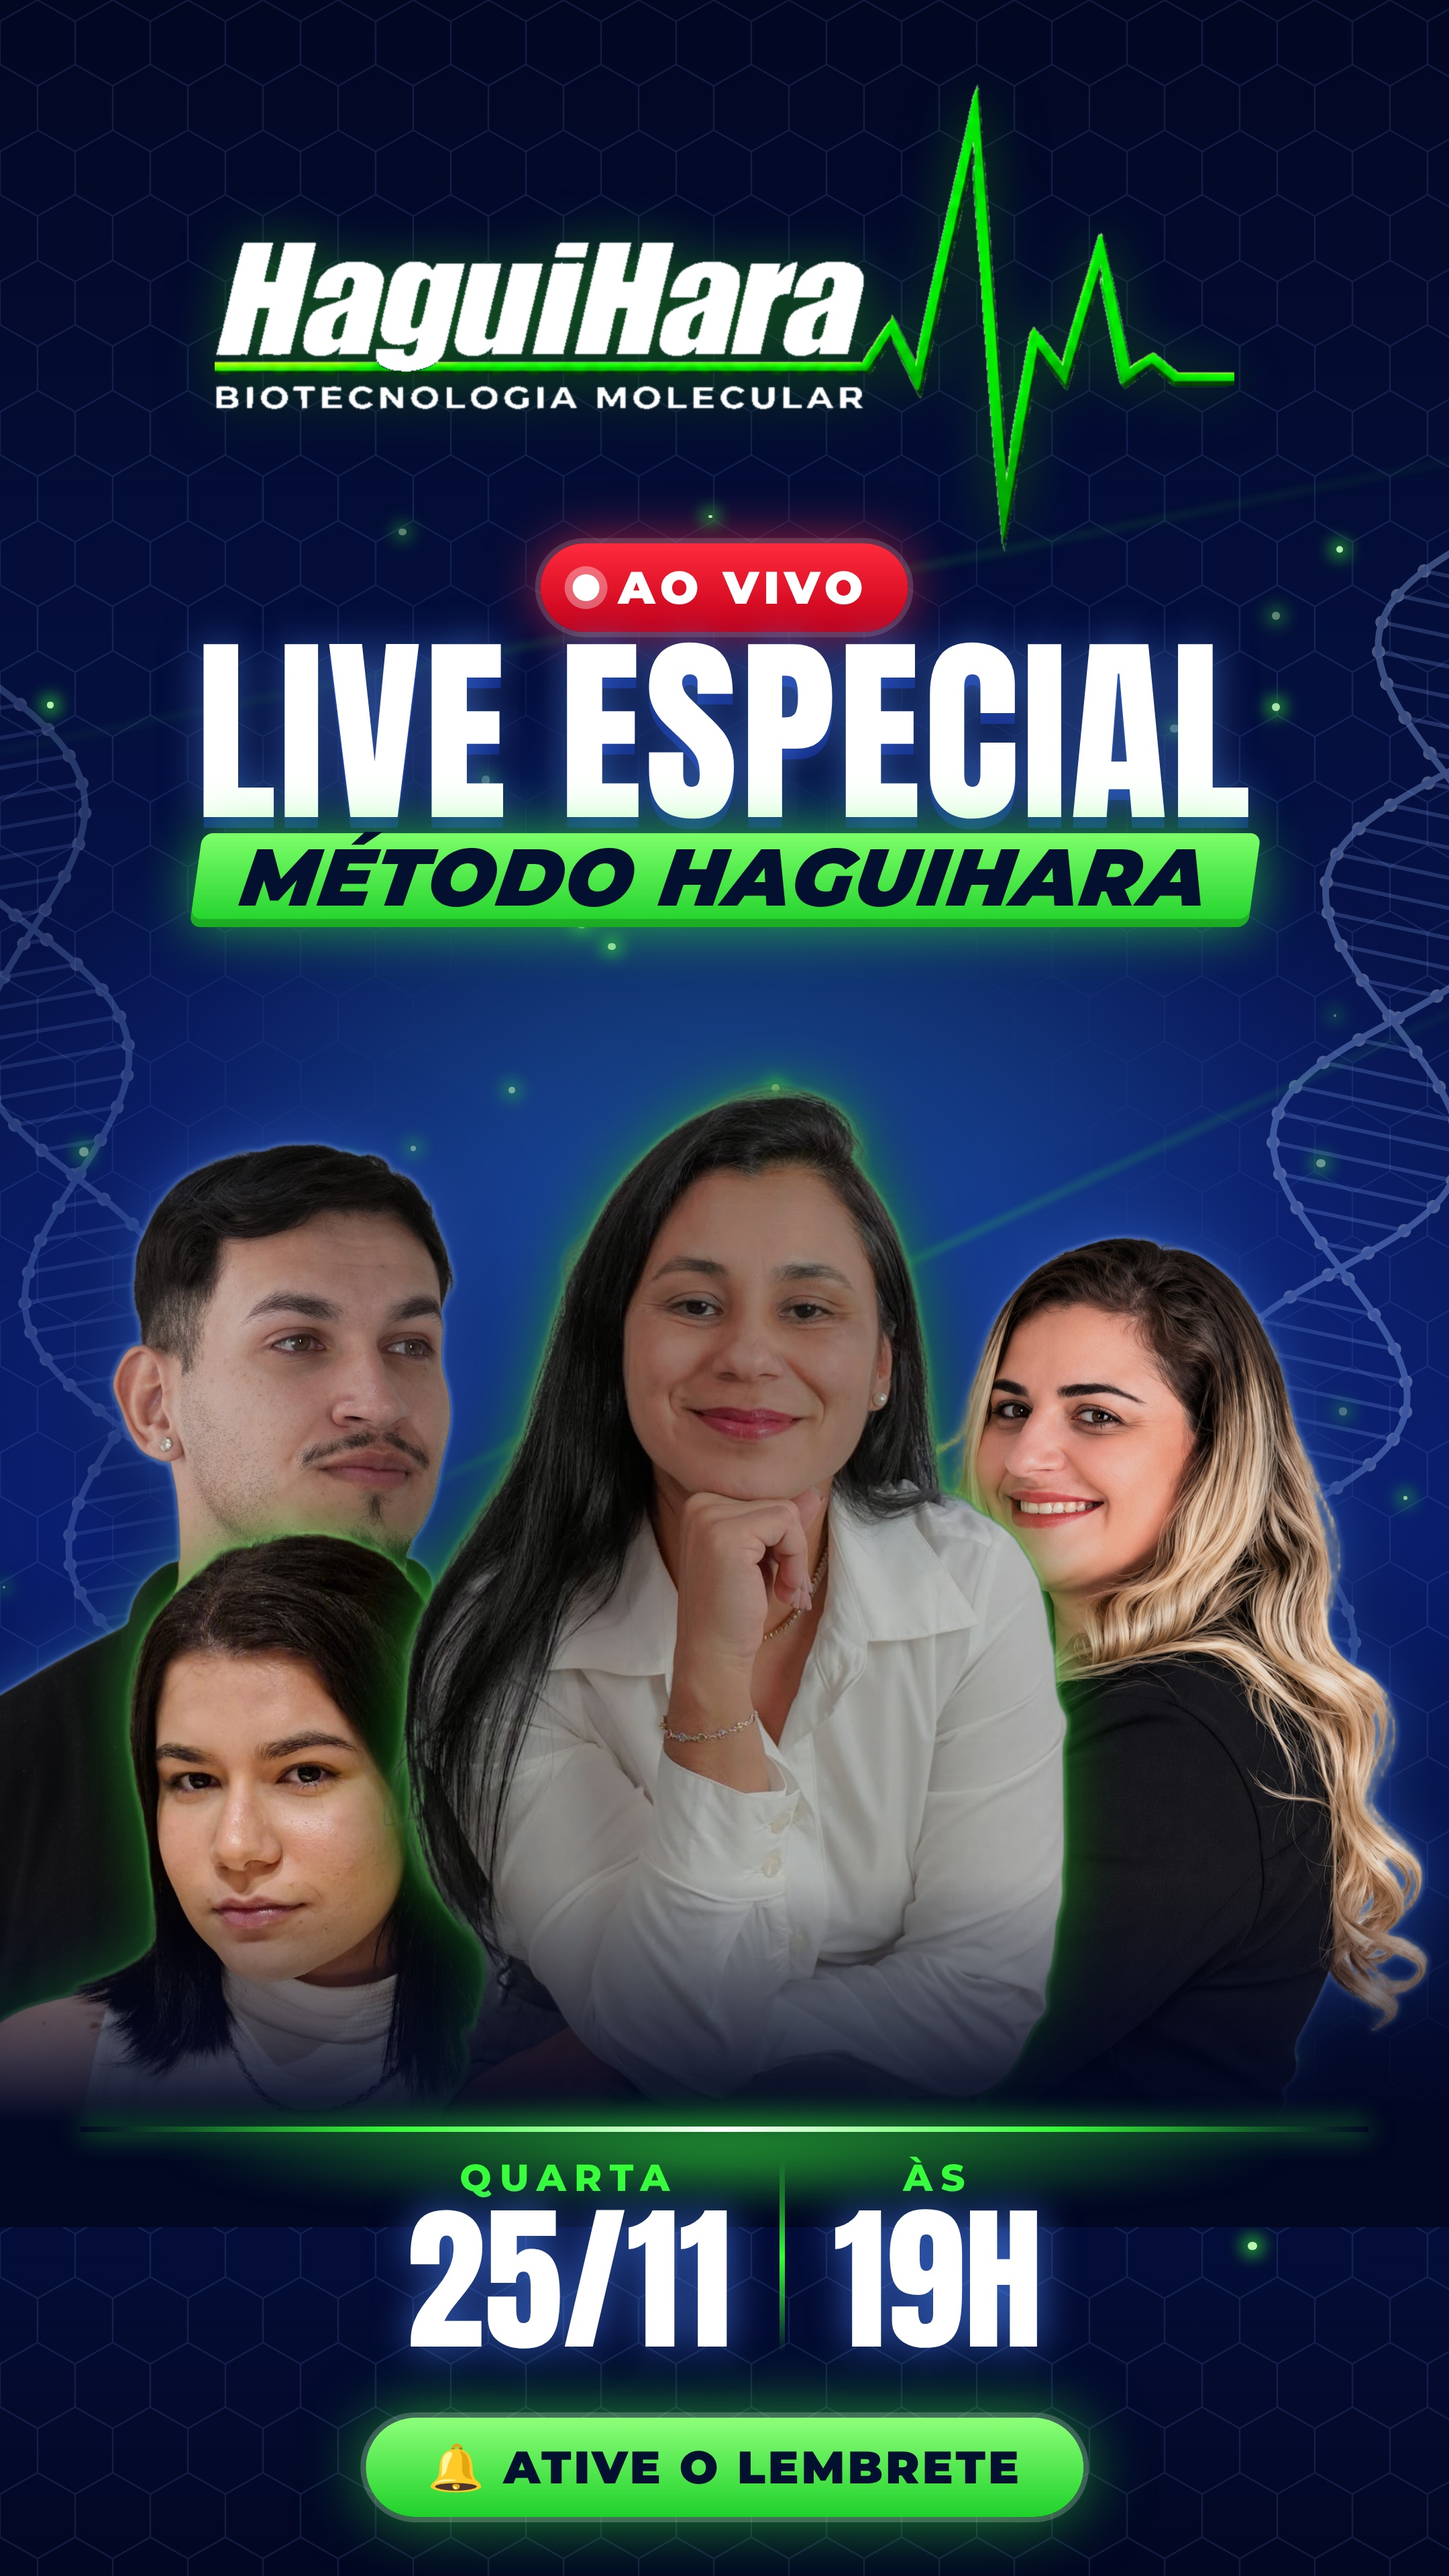
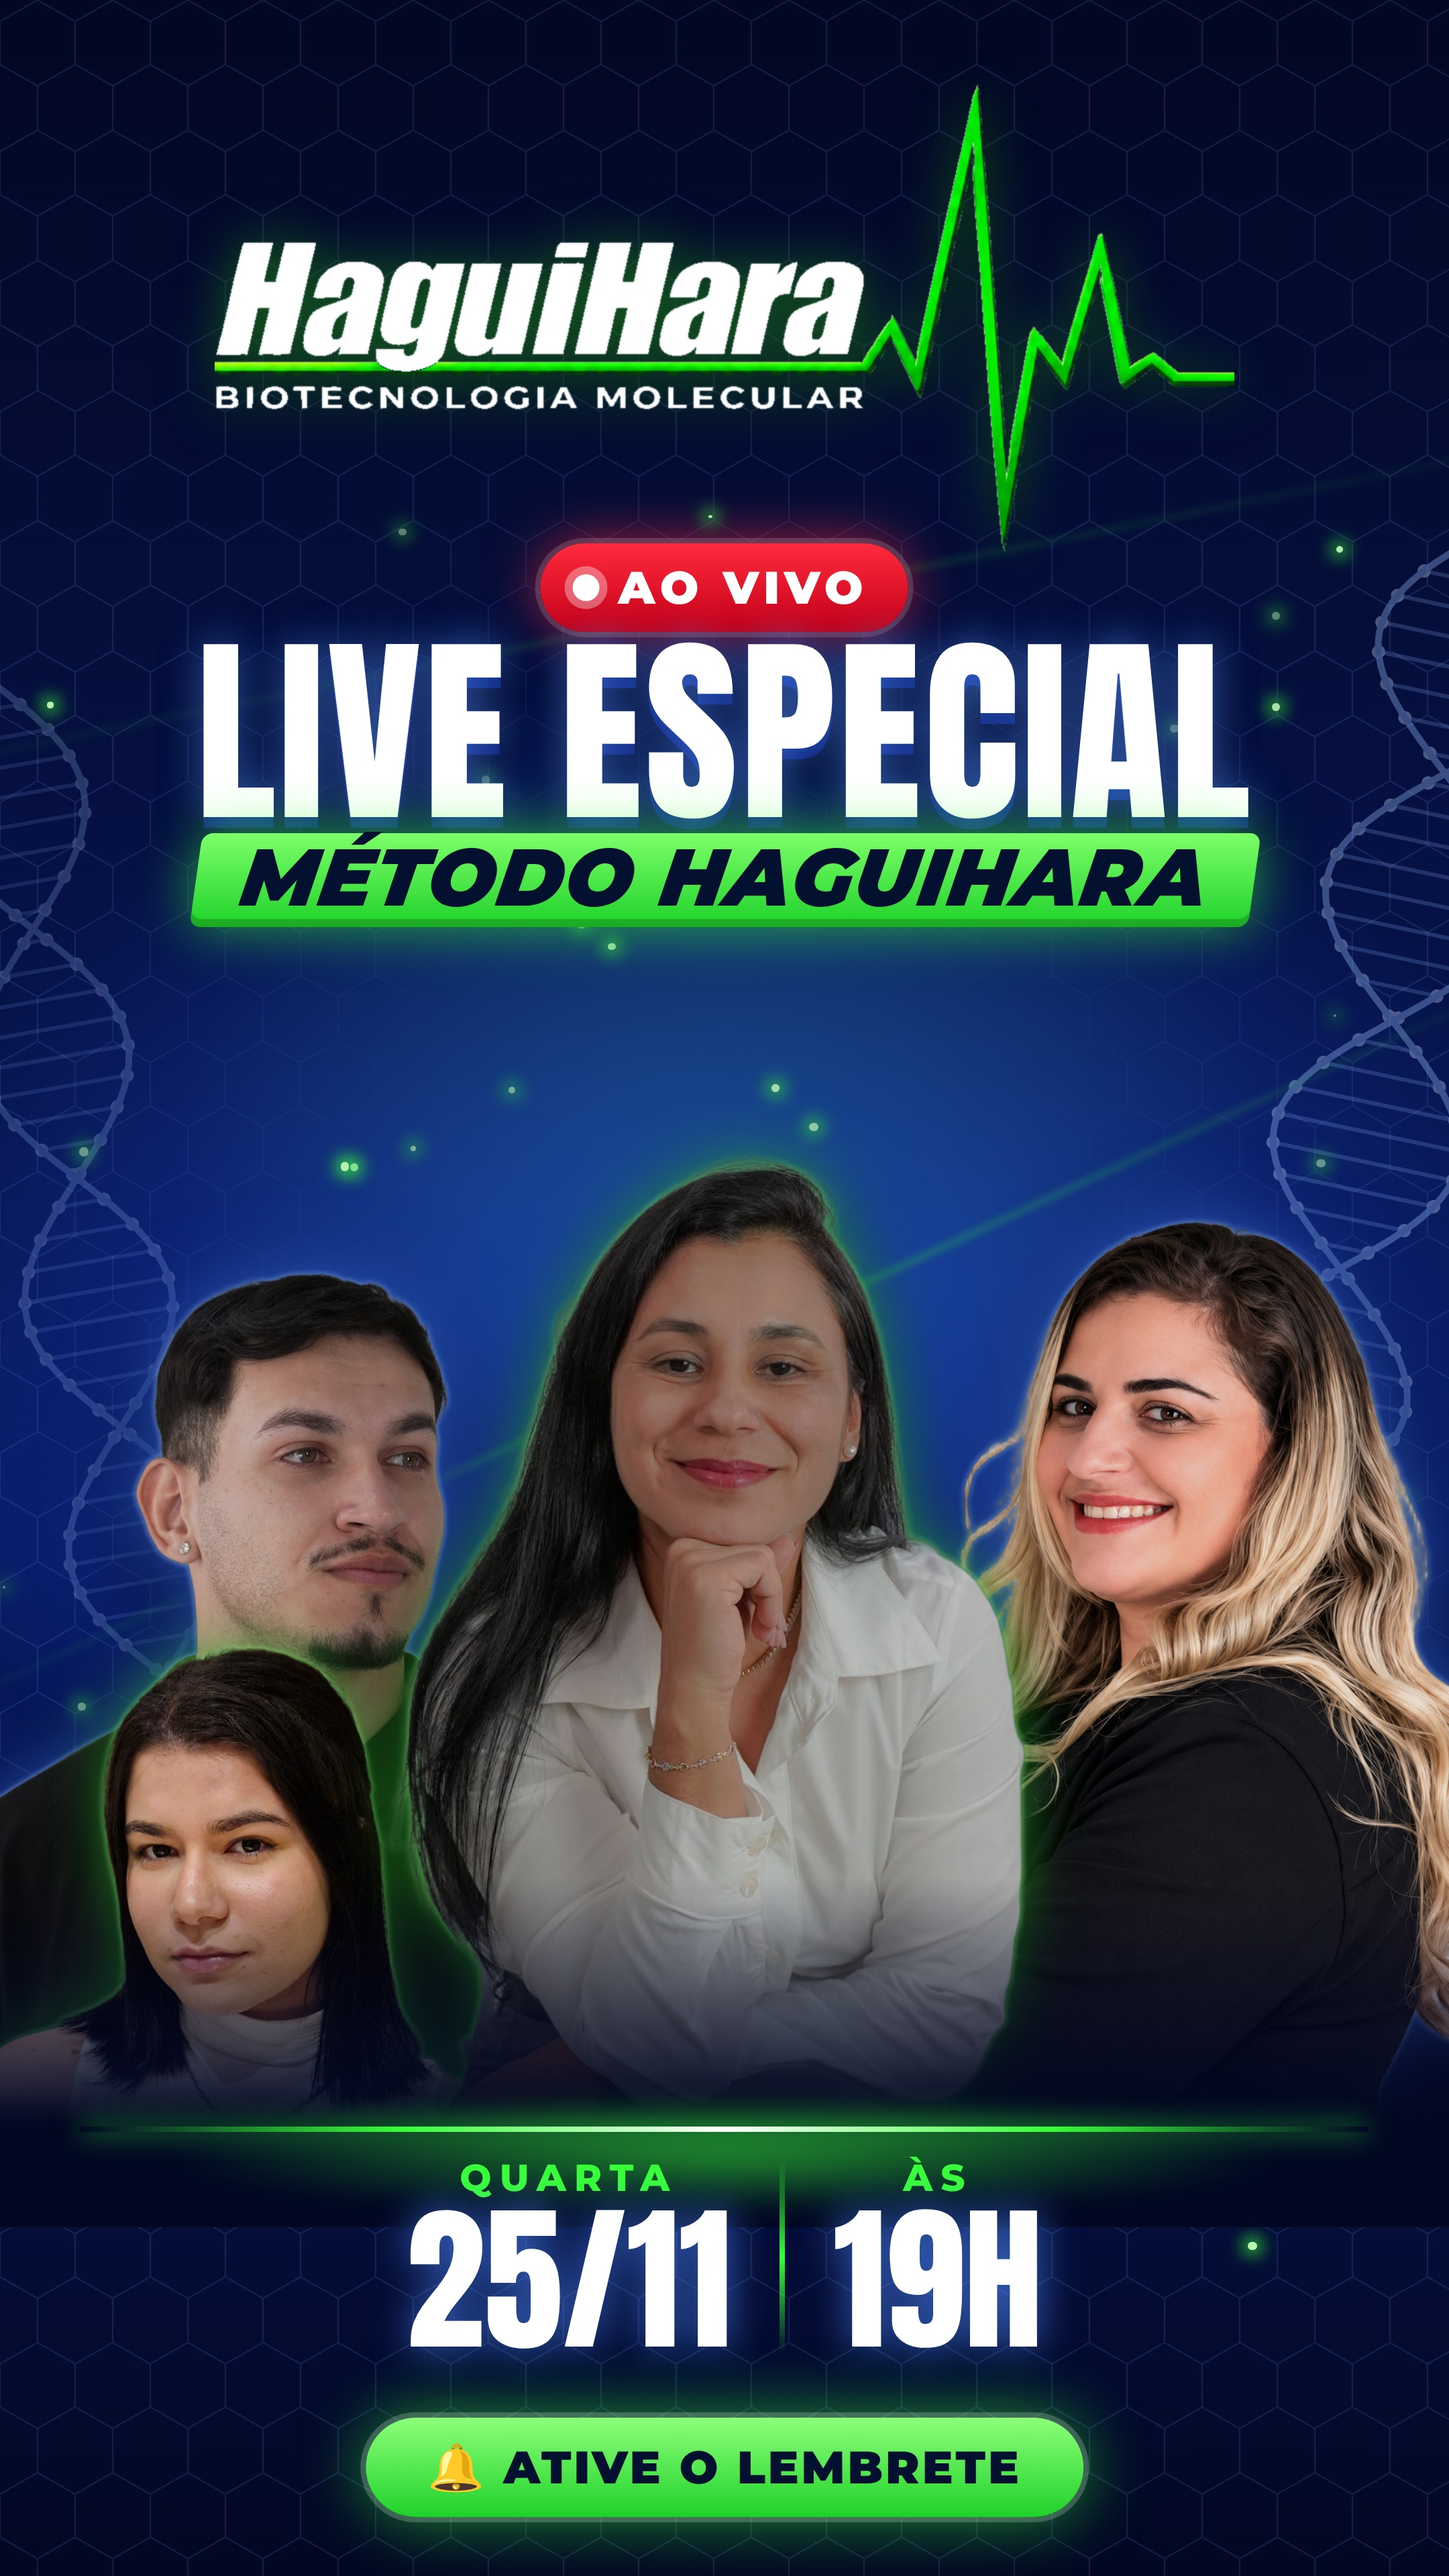
Iguala o tamanho dos rostos na thumbnail
Claude-Session: https://claude.ai/code/session_01K6wviLC7jNScPwdNJSoC5f

Changed region(s): [[0.0, 0.4062, 1.0, 0.8125]]

diff --git a/thumbnails/live-25-11/projeto.html b/thumbnails/live-25-11/projeto.html
@@ -54,13 +54,13 @@ svg.bg{position:absolute;inset:0}
  <div class="title"><div class="t1">LIVE ESPECIAL</div><div class="t2">MÉTODO HAGUIHARA</div></div>
  <div class="people">
   <!-- Você (sup. esquerda, atrás) -->
-  <img class="p back" src="recortes/p2.png" style="height:770px;left:-40px;bottom:-20px">
+  <img class="p back" src="recortes/p2.png" style="height:703px;left:-12px;bottom:-50px">
   <!-- Anne (direita) -->
-  <img class="p back" src="recortes/p1.png" style="height:700px;left:516px;bottom:-20px">
+  <img class="p back" src="recortes/p1.png" style="height:752px;left:545px;bottom:-60px">
   <!-- Yasmin (inf. esquerda) -->
-  <img class="p" src="recortes/p3.png" style="height:480px;left:-10px;bottom:-20px">
+  <img class="p" src="recortes/p3.png" style="height:394px;left:-10px;bottom:-20px">
   <!-- Grazi (centro, frente) -->
-  <img class="p" src="recortes/p4.png" style="height:820px;left:283px;bottom:-20px">
+  <img class="p" src="recortes/p4.png" style="height:765px;left:286px;bottom:-20px">
  </div>
  <div class="fade"></div>
  <div class="floor"></div>
